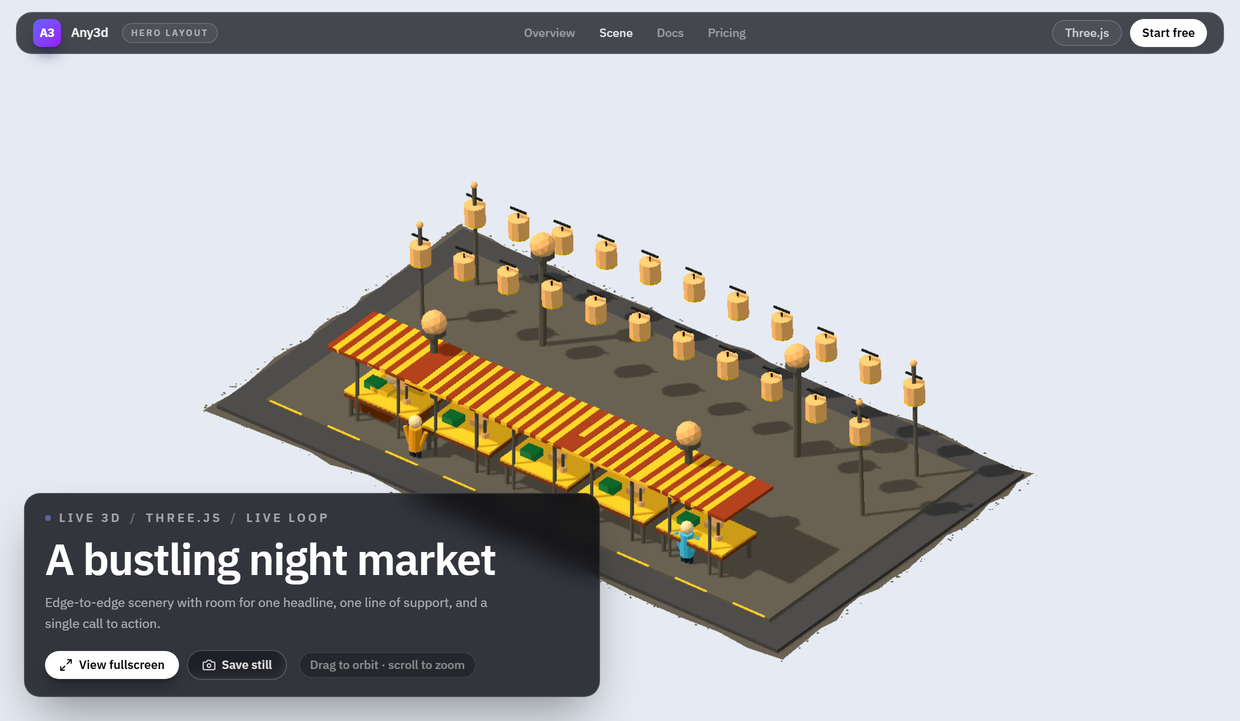
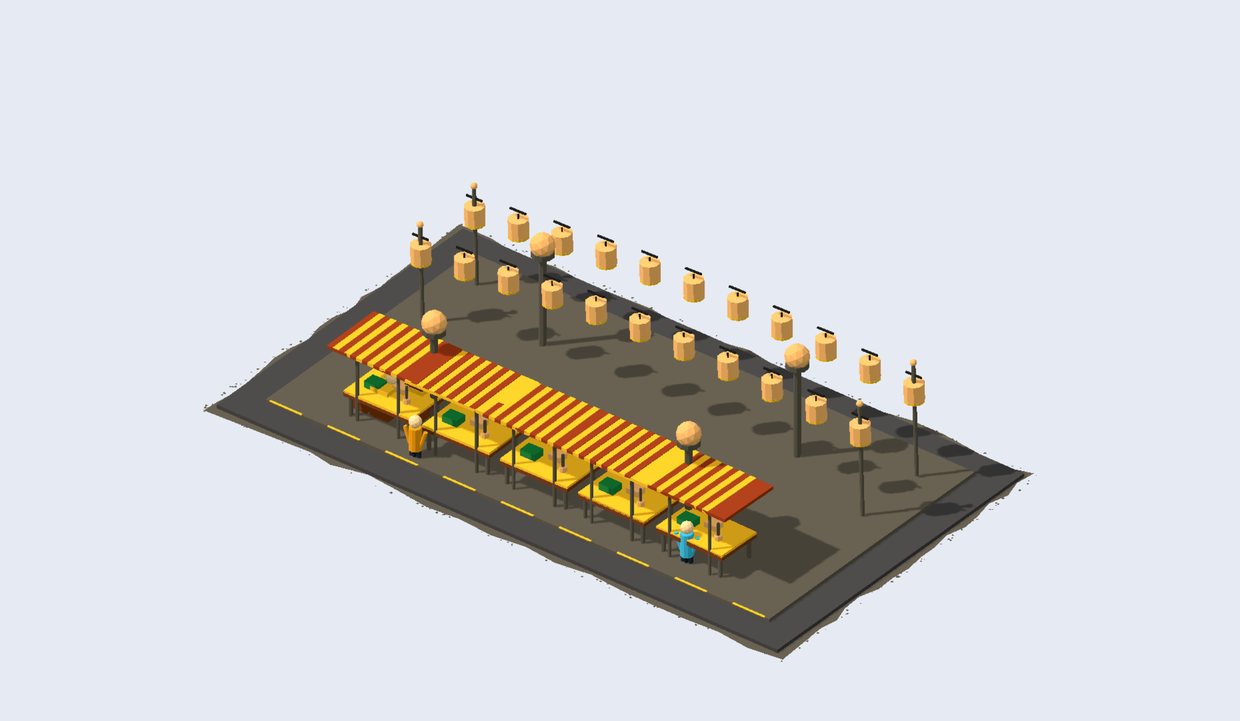
feat(presentation): hero is the scene, and popovers stay on top
The Hero presentation drew a nav bar, an eyebrow, a headline and two CTA
buttons over the scene. None of it was real: the exported hero page is the
scene and nothing else, so the preview promised a page the file never
contained — and the brandings sat in front of the thing being previewed. Hero
is now the scene, edge to edge, at the stage's aspect; Card keeps its caption
row because a card is a real component.

Three stacking fixes behind "the dropdowns are under the generated scenes":

- The stage is its own stacking context (`isolate` + `z-0`), so the iframe can
  no longer paint over a popover opened elsewhere in the app, whichever order
  the browser happens to paint in.
- `AnchoredPanel` mounts into `document.fullscreenElement` when there is one.
  A portal into `document.body` is invisible while the stage is fullscreen, so
  the expanded view's menus disappeared entirely.
- The card's fitted `max-width` is cleared on every non-card view, not only on
  a presentation change: Hero and the expanded view were letterboxed to the
  width the card last fitted to (584px of a 600px stage).

verify:showcase 35 invariants: the hero iframe must cover 97% of the stage with
no chrome in or over it (mutation-tested: a stray `Start free` span fails it).
All twelve stills and the six dusk stills re-shot without the brandings.

diff --git a/src/components/PresentationViews.tsx b/src/components/PresentationViews.tsx
@@ -5,10 +5,11 @@ import type { RenderFormat, SVGTheme, WebPresentationSize, WorldFinish } from '.
 
 /**
  * The two web presentations are different page structures, not one frame at two
- * sizes. Hero is a full-bleed landing banner with site chrome and a headline;
- * Card is a section of compact, self-contained cards in a responsive grid.
- * Everything here is presentational: the live iframe stays mounted in
- * SandboxPreview and only its CSS surrounds change when the size is switched.
+ * sizes. Hero is the scene, edge to edge, with no chrome: that is what the
+ * exported page contains. Card is a compact, self-contained card in a responsive
+ * grid, so it keeps a caption row under the frame. Everything here is
+ * presentational: the live iframe stays mounted in SandboxPreview and only its
+ * CSS surrounds change when the size is switched.
  */
 
 export const FORMAT_META: Record<RenderFormat, { label: string; tone: string; dot: string }> = {
@@ -18,101 +19,6 @@ export const FORMAT_META: Record<RenderFormat, { label: string; tone: string; do
 };
 
 export const ACCENT_SWATCHES = ['#e0604b', '#5b4ae0', '#10b981', '#f59e0b', '#06b6d4', '#ec4899'];
-
-interface HeroChromeProps {
-  sceneName: string;
-  format: RenderFormat;
-  motion: string;
-  onFullscreen: () => void;
-  onSnapshot: () => void;
-}
-
-/** Site nav + scrims. Rendered behind the hero copy inside the full-bleed stage. */
-export function HeroSiteChrome({ sceneName, format, motion, onFullscreen, onSnapshot }: HeroChromeProps) {
-  const meta = FORMAT_META[format];
-  return (
-    <>
-      {/* No full-frame scrims. The copy and the nav each carry their own small
-          glass surface instead, so the scene keeps its edges and its light: a
-          banner-wide dark gradient washed the whole picture out to make room for
-          two blocks of text. */}
-
-      {/* Mock site navigation: a hero belongs to a page, so the page header shows. */}
-      <div
-        data-hero-chrome="nav"
-        className="pointer-events-none absolute inset-x-0 top-0 z-20 px-3 py-2.5 sm:px-4 sm:py-3"
-      >
-        {/* The nav is a thin glass bar of its own: white labels over a noon scene
-            need a surface, and a header is a surface anyway. */}
-        <div className="flex items-center justify-between gap-4 rounded-2xl border border-[rgba(255,255,255,0.10)] bg-[rgba(6,8,14,0.72)] px-3 py-1.5 backdrop-blur-md sm:px-4">
-        <div className="flex items-center gap-2.5">
-          <span className="grid h-7 w-7 place-items-center rounded-lg bg-gradient-to-br from-indigo-500 to-purple-600 text-[10px] font-bold tracking-tight text-[#ffffff] shadow-lg shadow-indigo-950/50">
-            A3
-          </span>
-          <span className="text-[13px] font-semibold tracking-tight text-[rgba(255,255,255,0.90)]">Any3d</span>
-          <span className="ml-1 hidden rounded-full border border-[rgba(255,255,255,0.15)] bg-[rgba(255,255,255,0.05)] px-2 py-0.5 text-[9px] font-semibold uppercase tracking-[0.18em] text-[rgba(255,255,255,0.55)] sm:inline">
-            Hero layout
-          </span>
-        </div>
-        <nav aria-hidden="true" className="hidden items-center gap-6 text-[12px] font-medium text-[rgba(255,255,255,0.45)] md:flex">
-          <span>Overview</span>
-          <span className="text-[rgba(255,255,255,0.85)]">Scene</span>
-          <span>Docs</span>
-          <span>Pricing</span>
-        </nav>
-        <div aria-hidden="true" className="hidden items-center gap-2 sm:flex">
-          <span className="rounded-full border border-[rgba(255,255,255,0.15)] bg-[rgba(255,255,255,0.05)] px-3 py-1 text-[11px] font-medium text-[rgba(255,255,255,0.70)]">
-            {meta.label}
-          </span>
-          <span className="rounded-full bg-[#ffffff] px-3 py-1.5 text-[11px] font-semibold text-[#09090b]">Start free</span>
-        </div>
-        </div>
-      </div>
-
-      {/* Hero copy block: one headline, one line of support, one primary action. */}
-      <div className="absolute inset-x-0 bottom-0 z-20 px-3 pb-3 sm:px-4 sm:pb-4 lg:px-6 lg:pb-6">
-        <div className="max-w-xl rounded-2xl border border-[rgba(255,255,255,0.10)] bg-[rgba(6,8,14,0.80)] px-4 py-3.5 shadow-2xl shadow-black/40 backdrop-blur-md sm:px-5 sm:py-4">
-          <div className="mb-2.5 flex items-center gap-2 text-[10px] font-semibold uppercase tracking-[0.22em] text-[rgba(255,255,255,0.55)]">
-            <span className={`h-1.5 w-1.5 rounded-full ${meta.dot} animate-pulse`} />
-            Live 3D
-            <span className="text-[rgba(255,255,255,0.25)]">/</span>
-            {meta.label}
-            <span className="hidden text-[rgba(255,255,255,0.25)] sm:inline">/</span>
-            <span className="hidden sm:inline">{motion}</span>
-          </div>
-          <h1 className="text-balance text-[26px] font-semibold leading-[1.05] tracking-tight text-[#ffffff] sm:text-4xl lg:text-[44px]">
-            {sceneName}
-          </h1>
-          <p className="mt-2.5 max-w-md text-[12px] leading-relaxed text-[rgba(255,255,255,0.60)] sm:text-[13px] [@media(max-height:560px)]:hidden">
-            Edge-to-edge scenery with room for one headline, one line of support,
-            and a single call to action.
-          </p>
-          <div className="mt-4 flex flex-wrap items-center gap-2 [@media(max-height:420px)]:hidden">
-            <button
-              type="button"
-              onClick={onFullscreen}
-              className="inline-flex items-center gap-1.5 rounded-full bg-[#ffffff] px-3.5 py-1.5 text-[11px] font-semibold text-[#09090b] shadow-lg shadow-black/30 transition hover:bg-[rgba(255,255,255,0.9)] active:scale-[0.98] cursor-pointer"
-            >
-              <Maximize2 className="h-3.5 w-3.5" />
-              View fullscreen
-            </button>
-            <button
-              type="button"
-              onClick={onSnapshot}
-              className="inline-flex items-center gap-1.5 rounded-full border border-[rgba(255,255,255,0.20)] bg-[rgba(255,255,255,0.06)] px-3.5 py-1.5 text-[11px] font-semibold text-[rgba(255,255,255,0.85)] backdrop-blur-sm transition hover:border-[rgba(255,255,255,0.35)] hover:bg-[rgba(255,255,255,0.10)] active:scale-[0.98] cursor-pointer"
-            >
-              <Camera className="h-3.5 w-3.5" />
-              Save still
-            </button>
-            <span className="ml-1 hidden items-center gap-1.5 rounded-full border border-[rgba(255,255,255,0.10)] bg-[rgba(0,0,0,0.25)] px-2.5 py-1 text-[10px] font-medium text-[rgba(255,255,255,0.45)] sm:inline-flex">
-              Drag to orbit · scroll to zoom
-            </span>
-          </div>
-        </div>
-      </div>
-    </>
-  );
-}
 
 interface LiveCardBodyProps {
   sceneName: string;

diff --git a/src/components/SandboxPreview.tsx b/src/components/SandboxPreview.tsx
@@ -23,7 +23,7 @@ import {
 } from 'lucide-react';
 import { RenderFormat, SVGTheme, WorldFinish, WebPresentationSize } from '../types';
 import { GenerationPlayground } from './GenerationPlayground';
-import { HeroSiteChrome, LiveCardBody, LookStrip } from './PresentationViews';
+import { LiveCardBody, LookStrip } from './PresentationViews';
 import { convertAny3dToThree, exportThreeToGlb, downloadGlbFile } from '../lib/glbExporter';
 import { recordSceneFromIframe } from '../lib/turntable';
 import { LookScrubber } from './LookScrubber';
@@ -205,11 +205,10 @@ function SandboxPreviewInner({
   const cardSectionRef = useRef<HTMLDivElement>(null);
 
   useEffect(() => {
-    if (currentSize !== 'card') return;
-    // The card is fitted to the stage height so the whole card is visible. Expanded
-    // is not a card any more: keeping that width would letterbox the scene inside
-    // the fullscreen frame.
-    if (isImmersive) {
+    // The card is fitted to the stage height so the whole card is visible. Neither
+    // Hero (full-bleed) nor the expanded view is a card, and both would be
+    // letterboxed by the width the card fitted to: clear it outside Card.
+    if (currentSize !== 'card' || isImmersive) {
       cardSectionRef.current?.style.removeProperty('max-width');
       return;
     }
@@ -846,7 +845,7 @@ function SandboxPreviewInner({
                   className="w-60 p-1.5 rounded-xl bg-[#0c0e17] border border-white/[0.12] shadow-2xl z-50 backdrop-blur-xl animate-fade-in space-y-1"
                 >
                     {[
-                      { key: 'hero', label: 'Hero Section', desc: 'Full-bleed banner: nav, headline, one CTA' },
+                      { key: 'hero', label: 'Hero Section', desc: 'Full-bleed scene: edge to edge, no chrome' },
                       { key: 'card', label: 'Cards Section', desc: 'Compact 4:3 card in a responsive grid' },
                     ].map((sz) => (
                       <button
@@ -969,7 +968,10 @@ function SandboxPreviewInner({
       <div
         ref={stageRef}
         className={
-          '@container relative w-full flex-1 min-h-0 ' +
+          // `isolate` + z-0 keeps the scene in its own stacking context: an
+          // absolutely positioned panel elsewhere in the app can no longer end up
+          // underneath the iframe, whatever order the browser paints in.
+          '@container relative z-0 isolate w-full flex-1 min-h-0 ' +
           (currentSize === 'hero' || isImmersive
             ? 'overflow-hidden bg-[#05070d]'
             : 'no-scrollbar overflow-y-auto bg-[radial-gradient(ellipse_at_top,_var(--tw-gradient-stops))] from-indigo-950/25 via-[#0a0c13] to-[#0a0c13] px-3 ' +
@@ -1036,15 +1038,9 @@ function SandboxPreviewInner({
                 (stageHeight > 0 && stageHeight < 820 ? 'gap-2' : 'gap-2.5')
           }
         >
-          {currentSize === 'hero' && !isImmersive ? (
-            <HeroSiteChrome
-              sceneName={sceneName}
-              format={format}
-              motion={motionLabel}
-              onFullscreen={toggleFullscreen}
-              onSnapshot={handleSnapshotPng}
-            />
-          ) : null}
+          {/* Hero is the scene and nothing else: the exported hero page has no
+              nav, no headline and no scrims, so the preview must not invent them.
+              Card keeps its caption row because that card is a real component. */}
 
           <div
             className={
@@ -1075,23 +1071,7 @@ function SandboxPreviewInner({
                   className="absolute inset-0 h-full w-full border-none block"
                 />
 
-                {currentSize === 'hero' ? (
-                  <div className="pointer-events-none absolute bottom-4 right-4 z-20 flex flex-col items-end gap-1.5">
-                    {/* The hover readout was a third floating pill in the hero's
-                        bottom-right corner, and on a narrower stage it ran under
-                        the copy card. The card already carries the orbit hint, so
-                        the hero keeps one hint and no floating chrome. */}
-                    {currentSize !== 'hero' && hoverText && (
-                      <div className="flex items-center gap-1.5 rounded-full border border-indigo-400/30 bg-zinc-950/80 px-2.5 py-1 text-[10px] font-mono text-indigo-200 backdrop-blur-md">
-                        <Eye className="h-3 w-3 text-indigo-400" />
-                        {hoverText}
-                      </div>
-                    )}
-                    {/* No second orbit hint here: the hero chrome already carries
-                        one in its copy card, and this chip was drawn at 45% white
-                        over a black pill — the faint "ghost" in the corner. */}
-                  </div>
-                ) : isImmersive ? null : (
+                {currentSize === 'hero' || isImmersive ? null : (
                   <span className="pointer-events-none absolute left-2.5 top-2.5 z-10 rounded-md border border-white/10 bg-black/35 px-1.5 py-0.5 text-[9px] font-semibold uppercase tracking-[0.14em] text-white/70 backdrop-blur-sm">
                     Live embed
                   </span>

diff --git a/src/components/AnchoredPanel.tsx b/src/components/AnchoredPanel.tsx
@@ -81,6 +81,10 @@ export function AnchoredPanel({
 
   if (!open || !pos) return null;
 
+  // Inside a fullscreen element only its subtree is painted, so a panel portalled
+  // into `document.body` would be invisible exactly when the stage is expanded.
+  const host = (typeof document !== 'undefined' && document.fullscreenElement) || document.body;
+
   return createPortal(
     <div
       ref={(node) => {
@@ -93,6 +97,6 @@ export function AnchoredPanel({
     >
       {children}
     </div>,
-    document.body,
+    host,
   );
 }

diff --git a/README.md b/README.md
@@ -233,7 +233,7 @@ Switch between **Hero** and **Card** with one click in the stage toolbar to see 
 
 Twelve captures taken straight from the running studio with `node scripts/showcase.mjs` — no retouching, no mock layout:
 
-- **Six hero sections** (full-bleed banner: nav, one headline, one CTA) and **six card sections** (one live 4:3 card, as large as the stage height allows, with the look controls as a thin strip under it). The scene is the only subject of the frame: nothing in the card presentation competes with it. The card is sized by fitting the real layout — set the width, read how much the stage overflows or has spare, correct — so no assumed header or caption height can drift. The export lives once, in the stage toolbar next to the PNG snapshot; it used to be a third card called *Ship this scene*, which only repeated the download the project header already offers.
+- **Six hero sections** (the scene, edge to edge — no nav bar, no headline card, no scrims: the exported hero page carries none of those, so the preview shows exactly the file) and **six card sections** (one live 4:3 card, as large as the stage height allows, with the look controls as a thin strip under it). The scene is the only subject of the frame: nothing in the card presentation competes with it. The card is sized by fitting the real layout — set the width, read how much the stage overflows or has spare, correct — so no assumed header or caption height can drift. The export lives once, in the stage toolbar next to the PNG snapshot; it used to be a third card called *Ship this scene*, which only repeated the download the project header already offers.
 - Each presentation mixes **four presets** with **two prompt-only scenes that are not in the preset library** (night market, glacier lighthouse, rooftop greenhouse, coral nursery). Those four were typed as prompts and generated end to end, which is how the framing and coverage bugs below were caught.
 - Two hero banners are looping GIFs because their motion is the point: crane travel on the harbour, lantern sway in the night market. Everything else is a still.
 
@@ -242,31 +242,31 @@ Twelve captures taken straight from the running studio with `node scripts/showca
 <table>
   <tr>
     <td width="50%" align="center">
-      <a href="docs/assets/showcase/harbour-hero.png" title="Open the full-resolution still"><img src="docs/assets/showcase/harbour-hero.gif" alt="SVG harbour scene as a full-bleed hero banner with nav and headline" /></a><br />
+      <a href="docs/assets/showcase/harbour-hero.png" title="Open the full-resolution still"><img src="docs/assets/showcase/harbour-hero.gif" alt="SVG harbour scene as a full-bleed hero, edge to edge" /></a><br />
       <sub><b>harbour</b> · SVG Vector · preset — blueprint gantry cranes over water</sub>
     </td>
     <td width="50%" align="center">
-      <img src="docs/assets/showcase/florist-hero.png" alt="Three.js florist shop front as a full-bleed hero banner" /><br />
+      <img src="docs/assets/showcase/florist-hero.png" alt="Three.js florist shop front as a full-bleed hero" /><br />
       <sub><b>florist</b> · Three.js · preset — warm shop front with a street of planters</sub>
     </td>
   </tr>
   <tr>
     <td align="center">
-      <img src="docs/assets/showcase/town-hero.png" alt="Isometric town square as a full-bleed hero banner" /><br />
+      <img src="docs/assets/showcase/town-hero.png" alt="Isometric town square as a full-bleed hero" /><br />
       <sub><b>town square</b> · SVG Vector · preset — a whole town block with roads and traffic</sub>
     </td>
     <td align="center">
-      <img src="docs/assets/showcase/airport-hero.png" alt="SVG airport terminal and runway in a hero banner" /><br />
+      <img src="docs/assets/showcase/airport-hero.png" alt="SVG airport terminal and runway as a full-bleed hero" /><br />
       <sub><b>airport</b> · SVG Vector · preset — terminal, apron and runway lights</sub>
     </td>
   </tr>
   <tr>
     <td align="center">
-      <a href="docs/assets/showcase/market-hero.png" title="Open the full-resolution still"><img src="docs/assets/showcase/market-hero.gif" alt="Night market with lanterns and stalls as a hero banner" /></a><br />
+      <a href="docs/assets/showcase/market-hero.png" title="Open the full-resolution still"><img src="docs/assets/showcase/market-hero.gif" alt="Night market with lanterns and stalls as a full-bleed hero" /></a><br />
       <sub><b>night market</b> · Three.js · <i>prompt only</i> — “a bustling night market with noodle stalls and paper lanterns”</sub>
     </td>
     <td align="center">
-      <img src="docs/assets/showcase/glacier-hero.png" alt="Glacier lighthouse and research hut as a hero banner" /><br />
+      <img src="docs/assets/showcase/glacier-hero.png" alt="Glacier lighthouse and research hut as a full-bleed hero" /><br />
       <sub><b>glacier lighthouse</b> · Three.js · <i>prompt only</i> — “a lighthouse at the edge of a glacier with a stranded research hut”</sub>
     </td>
   </tr>
@@ -372,6 +372,7 @@ To regenerate everything: start the API (`node server/index.js`) and the app (`n
 Stills are normalised to 1240 px wide and GIFs to 640 px, so GitHub renders every tile at the same scale.
 | The stage toolbar scrolls horizontally to stay one row, and a scroll container clips every absolutely positioned descendant — so every dropdown opened from it (`Finish`, the camera menu, the presentation menu, the `Look` popover) was laid out correctly and painted nowhere. The buttons looked dead; the hero also washed its whole scene under a black gradient to make room for two blocks of text, and carried a third floating hint pill. | The panels are portalled out of the scrolling row (`AnchoredPanel`: fixed coordinates under the trigger, re-placed on scroll and resize, and the panel element joins the trigger in the outside-click check so a choice still lands), the hero scrims are gone in favour of a slim glass nav bar and a compact copy card, and the hero keeps one hint. The hero chrome paints literal colours instead of theme tokens, because the light-theme remap turned `text-white` into near-black and the copy card's headline vanished. `verify:showcase` opens a toolbar menu, hit-tests the point under it, and picks an option to confirm the finish actually changed. |
 | The card's **Expand** asked the browser for fullscreen and then kept the card: the same 4:3 tile, the title block, the look strip, on a black field. Expanding a card that says *live scene* and getting a bigger card is the wrong answer, and the scene was still boxed into a quarter of the screen. | Expanding from Card drops the card chrome and the toolbar and gives the iframe the whole frame, with a scene-name pill and one **Exit** control drawn over it; Esc and the browser's own exit restore the card, because the layout follows `fullscreenchange` rather than the click that started it. The card's fitted `max-width` is cleared while expanded — without that the scene kept its card width and letterboxed itself inside the fullscreen frame. `verify:showcase` asserts the expanded frame covers at least 97% of the stage and that exiting brings the 4:3 card and its chrome back (mutation-tested: keeping the fitted width fails it with a 692-of-1600-pixel frame). |
+| The Hero presentation drew a nav bar, an eyebrow, a headline and two CTA buttons over the scene. None of it was real: the exported hero page is the scene and nothing else, so the preview was promising a page the file never contained — and the brandings sat in the way of the thing being previewed. | The overlay is gone. Hero is the scene, edge to edge, at the stage's aspect; Card keeps its caption row because a card is a real component. The stage is now its own stacking context (`isolate` + `z-0`) so the iframe cannot paint over a popover opened elsewhere in the app, `AnchoredPanel` mounts into the fullscreen element when there is one (a portal into `document.body` is invisible while the stage is fullscreen), and the card's fitted `max-width` is cleared on every non-card view instead of only when the presentation changed. `verify:showcase` asserts the hero iframe covers 97% of the stage with no chrome in or over it (mutation-tested: a stray `Start free` span fails it). |
 
 Before pushing, `npm run check` runs the test suite, the typechecker and the production build — it is also wired to `.githooks/pre-push` (`git config core.hooksPath .githooks` once per clone), so a red build cannot be pushed; `SKIP_CHECK=1 git push` bypasses it. `npm run verify:showcase` covers the live presentation invariants and needs the API and app running. Point the checks at the address the dev server actually bound (`A3D_URL=http://127.0.0.1:5174` if Vite bound IPv4 only): `localhost` can resolve to the other family and a stale server then answers, which makes an edit look like it had no effect.
 
@@ -379,7 +380,7 @@ CI keeps this honest:
 
 | Workflow | What it does |
 |---|---|
-| `.github/workflows/ci.yml` | `npm test`, `tsc --noEmit`, `npm run build`, then boots the API and app and runs `npm run verify:showcase` — 35 presentation invariants (expanding the card fills the screen with the scene and exiting restores the card, a toolbar menu paints above the scene and its choice lands, the home grid runs six real scenes and one of them opens, the frame survives Hero ↔ Card, the gallery previews the scene it lists and marks the row it shows, the card stage carries no demo band and does not repeat the toolbar's look or play controls, no duplicate export, the stage toolbar exports a standalone file, the card fits a short stage, light mode has no black surfaces, pixel art fills its frame, console clean) — plus the contract walks for each kernel (`verify:pixel-finish`, `verify:svg-api`, `verify:pixel-api`, `verify:worlds-api`), `npm run verify:camera` for the camera an export carries, `npm run verify:storyboard` for the storyboard framing on the project page, `npm run verify:reload` for a project opened cold (the bundle is memory-only, so a refresh has to rebuild it), `npm run verify:fidelity` to re-shoot the README stills, `npm run verify:bounds` to mount every procedural world and check it fills its frame without being clipped (against a recorded baseline, so a scene cannot quietly shrink), and `npm run verify:dusk` to prove the dusk stills below are actually lit dusk rather than a noon picture filed under a new name. |
+| `.github/workflows/ci.yml` | `npm test`, `tsc --noEmit`, `npm run build`, then boots the API and app and runs `npm run verify:showcase` — 35 presentation invariants (the hero is the scene edge to edge with no chrome, expanding the card fills the screen with the scene and exiting restores the card, a toolbar menu paints above the scene and its choice lands, the home grid runs six real scenes and one of them opens, the frame survives Hero ↔ Card, the gallery previews the scene it lists and marks the row it shows, the card stage carries no demo band and does not repeat the toolbar's look or play controls, no duplicate export, the stage toolbar exports a standalone file, the card fits a short stage, light mode has no black surfaces, pixel art fills its frame, console clean) — plus the contract walks for each kernel (`verify:pixel-finish`, `verify:svg-api`, `verify:pixel-api`, `verify:worlds-api`), `npm run verify:camera` for the camera an export carries, `npm run verify:storyboard` for the storyboard framing on the project page, `npm run verify:reload` for a project opened cold (the bundle is memory-only, so a refresh has to rebuild it), `npm run verify:fidelity` to re-shoot the README stills, `npm run verify:bounds` to mount every procedural world and check it fills its frame without being clipped (against a recorded baseline, so a scene cannot quietly shrink), and `npm run verify:dusk` to prove the dusk stills below are actually lit dusk rather than a noon picture filed under a new name. |
 | `.github/workflows/showcase.yml` | Weekly / on demand: re-captures all twelve scenes with `showcase:gifs`, uploads them as an artifact, and commits the refreshed images only when `commit_images` is set. |
 
 ---
